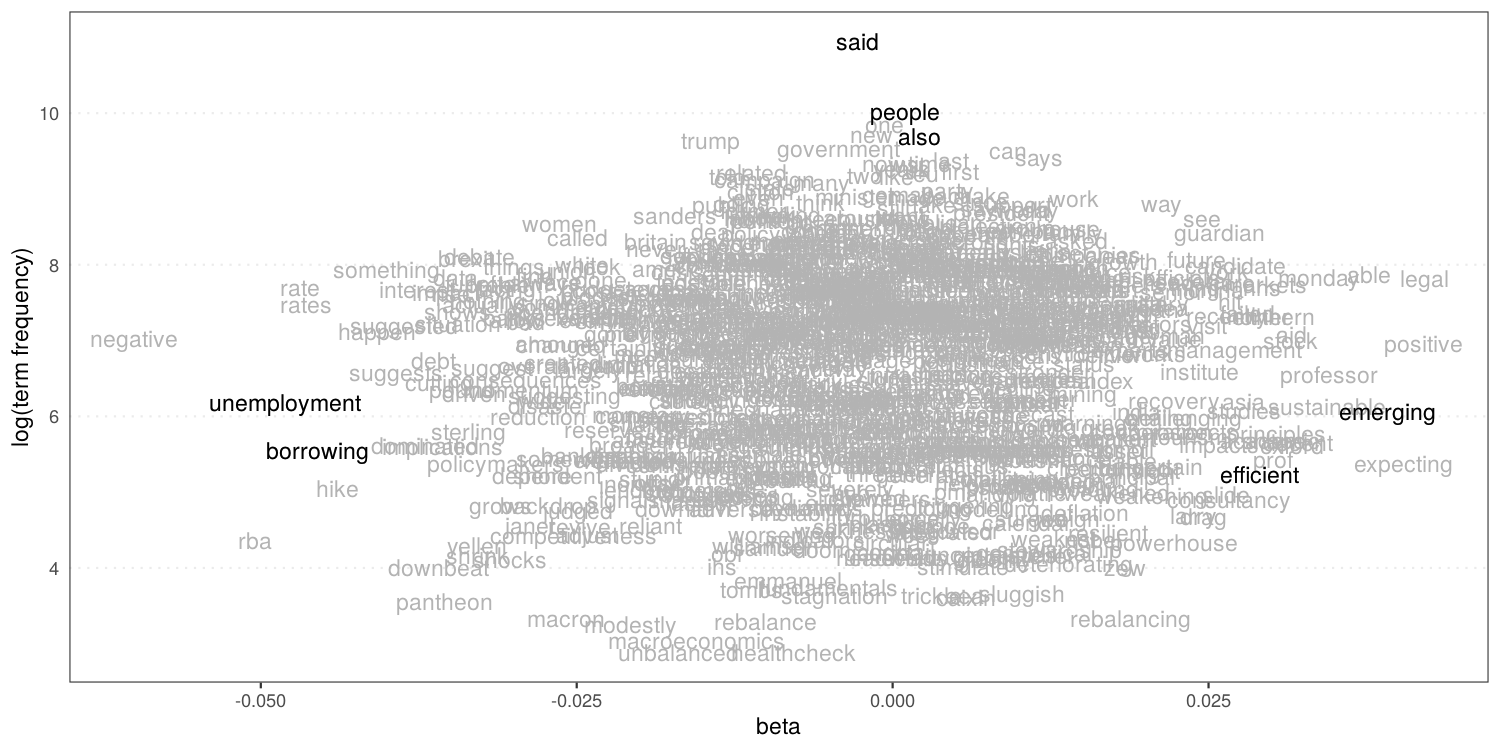
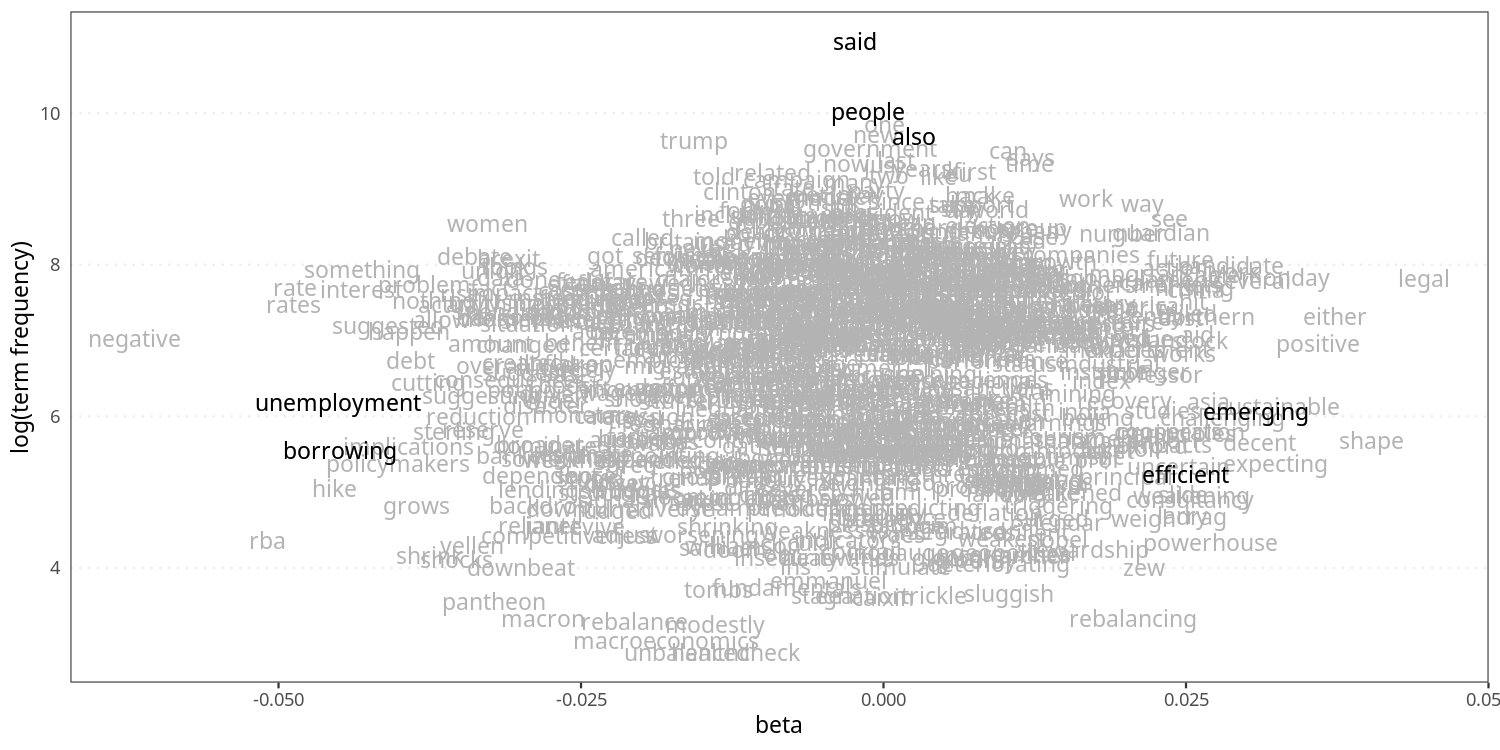
Update README

diff --git a/README.md b/README.md
@@ -69,26 +69,25 @@ dfmt_sent <- toks_sent %>%
     dfm_trim(min_termfreq = 5)
 
 eco <- char_keyness(toks_sent, "econom*", p = 0.05)
-tmod_lss <- textmodel_lss(dfmt_sent, seedwords('pos-neg'), feature = eco, cache = TRUE)
+tmod_lss <- textmodel_lss(dfmt_sent, as.seedwords(data_dictionary_sentiment),
+                          feature = eco, cache = TRUE)
 ```
 
-    ## Reading cache file: lss_cache/svds_dcdacb167d4fdfc7.RDS
+    ## Reading cache file: lss_cache/svds_a588a327e03cb074.RDS
 
 ### Sentiment seed words
 
-Seed words are 14 generic sentiment
-    words.
+Seed words are 14 generic sentiment words.
 
 ``` r
-seedwords("pos-neg")
+data_dictionary_sentiment
 ```
 
-    ##        good        nice   excellent    positive   fortunate     correct 
-    ##           1           1           1           1           1           1 
-    ##    superior         bad       nasty        poor    negative unfortunate 
-    ##           1          -1          -1          -1          -1          -1 
-    ##       wrong    inferior 
-    ##          -1          -1
+    ## Dictionary object with 2 key entries.
+    ## - [positive]:
+    ##   - good, nice, excellent, positive, fortunate, correct, superior
+    ## - [negative]:
+    ##   - bad, nasty, poor, negative, unfortunate, wrong, inferior
 
 ### Econimic sentiment words
 
@@ -100,27 +99,27 @@ to seed
 head(coef(tmod_lss), 20) # most positive words
 ```
 
-    ##       legal    positive   expecting    emerging        able   professor 
-    ##  0.04205670  0.04198759  0.04041890  0.03913838  0.03768802  0.03453550 
-    ## sustainable      monday      decent      oxford         aid       stock 
-    ##  0.03438302  0.03376070  0.03208933  0.03161188  0.03156961  0.03147390 
-    ##  principles       shape        prof    northern    academic     markets 
-    ##  0.03035493  0.03016979  0.03014006  0.02992693  0.02986570  0.02947902 
-    ##         nhs      either 
-    ##  0.02922554  0.02915907
+    ##       legal       shape      either    positive      monday sustainable 
+    ##  0.04467974  0.04030600  0.03729081  0.03594595  0.03324765  0.03267820 
+    ##   expecting      decent    emerging     several        york   candidate 
+    ##  0.03235872  0.03105931  0.03077907  0.03048184  0.02915092  0.02874260 
+    ## challenging        able  powerhouse        asia    northern       thing 
+    ##  0.02799373  0.02758163  0.02700428  0.02689114  0.02672865  0.02663936 
+    ##        drag       stock 
+    ##  0.02627880  0.02617401
 
 ``` r
 tail(coef(tmod_lss), 20) # most negative words
 ```
 
-    ##         rise       impact     pantheon implications      cutting 
-    ##  -0.03495389  -0.03535304  -0.03546813  -0.03565484  -0.03590826 
-    ##     downbeat         debt    dominated     interest    suggested 
-    ##  -0.03597810  -0.03636211  -0.03700214  -0.03762701  -0.03864661 
-    ##     suggests    something       happen         hike    borrowing 
-    ##  -0.03928283  -0.04008333  -0.04076961  -0.04396055  -0.04549552 
-    ##        rates         rate unemployment          rba     negative 
-    ##  -0.04638569  -0.04689606  -0.04810378  -0.05048054  -0.06004318
+    ##        allow      nothing       shrink      cutting      problem        grows 
+    ##  -0.03653112  -0.03718793  -0.03752405  -0.03762728  -0.03795939  -0.03860088 
+    ##         debt implications       happen policymakers    suggested    something 
+    ##  -0.03907404  -0.03925240  -0.03925315  -0.04015877  -0.04092905  -0.04308314 
+    ##     interest    borrowing unemployment         hike         rate        rates 
+    ##  -0.04312183  -0.04493415  -0.04511959  -0.04540284  -0.04862177  -0.04875790 
+    ##          rba     negative 
+    ##  -0.05088908  -0.06187295
 
 This plot shows that frequent words (“said”, “people”, “also”) are
 neutral while less frequenty words such as “borrowing”, “unemployment”,
